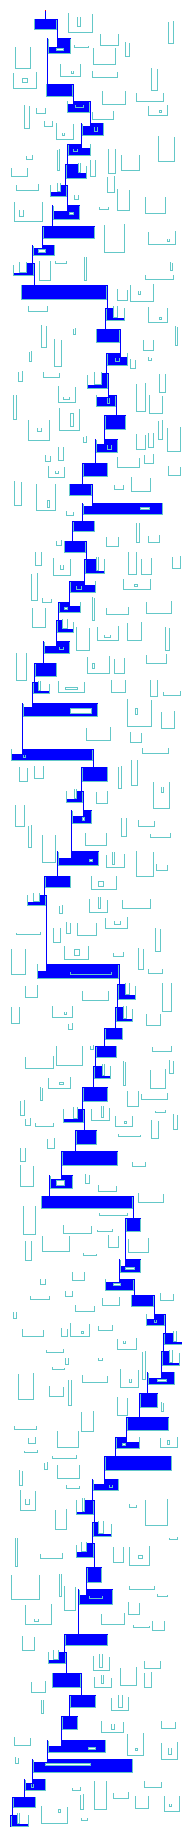
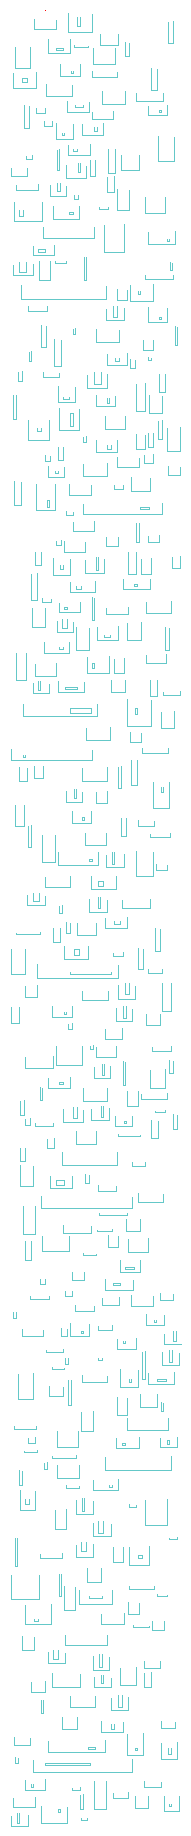
Day-17

Changed region(s): [[0.0785, 0.0, 0.9162, 0.9624], [0.0524, 0.9624, 0.2356, 1.0]]

diff --git a/Day-17/Case-1/main.go b/Day-17/Case-1/main.go
@@ -9,6 +9,7 @@ import (
 	"image/color"
 	"image/png"
 	"os"
+	//"time"
 )
 
 const (
@@ -81,9 +82,9 @@ func main() {
 	fillWater(0, 500)
 	displayFlow()
 
-	/*for y := 201; y < 300; y++ {
+	/*for y := 1; y <= 100; y++ {
 		for x:= 450; x < 550; x++ {
-			if y == 201 && x == 500 { 
+			if y == 1 && x == 500 { 
 				fmt.Printf("&")
 				continue
 			}
@@ -99,6 +100,7 @@ func main() {
 // Returns true for obstruction found, false for clear path
 func fillWater(y int, x int) {
 
+	//maxY = 50
 	OUTER:
 	for y <= maxY {
 
@@ -109,9 +111,9 @@ func fillWater(y int, x int) {
 		} 
 
 		// If the SQUARE BELOW consists of SAND
-		if grid[y+1][x] == sand { 
+		if grid[y+1][x] == sand || grid[y+1][x] == water { 
 			y++
-		} else if grid[y+1][x] == clay || grid[y+1][x] == water {
+		} else if grid[y+1][x] == clay {
 
 			borderYLeft, borderYRight, border, borderXLeft, borderXRight := -1, -1, -1, -1, -1
 			
@@ -119,7 +121,7 @@ func fillWater(y int, x int) {
 			FINDLOOPLEFT:
 			for subY := y; subY >= minY; subY-- {
 				for subX := x; subX >= minX; subX-- {
-					if (grid[subY+1][subX] == sand && grid[subY+1][subX+1] == clay) {
+					if grid[subY][subX] != clay && grid[subY+1][subX] != clay && grid[subY][subX+1] != clay && grid[subY][subX-1] == sand && grid[subY+1][subX+1] == clay  {
 						borderYLeft = subY
 						borderXLeft = subX
 						break FINDLOOPLEFT
@@ -134,8 +136,7 @@ func fillWater(y int, x int) {
 			FINDLOOPRIGHT:
 			for subY := y; subY >= minY; subY-- {
 				for subX := x; subX <= maxX; subX++ {
-					if (grid[subY+1][subX] == sand && grid[subY+1][subX-1] == clay) {
-
+					if grid[subY][subX] != clay && grid[subY+1][subX] != clay && grid[subY][subX-1] != clay && grid[subY][subX+1] == sand && grid[subY+1][subX-1] == clay  {
 						borderYRight = subY
 						borderXRight = subX
 						break FINDLOOPRIGHT
@@ -155,47 +156,47 @@ func fillWater(y int, x int) {
 				border = borderYRight 
 			} 
 			
-			fmt.Println("fill to level", border)
-
 			// FILL LEFT SIDE TO MAX LEVEL
 			FILLLOOPLEFT:
 			for subY := y; subY >= border; subY-- {
 				for subX := x; subX >= minX; subX-- {
-					if (grid[subY+1][subX] == sand && grid[subY+1][subX+1] == clay) {
+					if grid[subY][subX] != clay && grid[subY+1][subX] != clay && grid[subY][subX-1] == sand && grid[subY][subX+1] != clay && grid[subY+1][subX+1] == clay  {
 						break FILLLOOPLEFT
 					}
 
-					fmt.Println("filling", subY, ",", subX, "with water")
-					grid[subY][subX] = water
-					
-					if grid[subY][subX-1] == clay || grid[subY][subX-1] == water {
+					if grid[subY][subX] == clay {
 						break
 					}
+					
+					fmt.Println("filling", subY, ",", subX, "with water")
+					grid[subY][subX] = water
+										
 				}
 			}
 
 			// FILL RIGHT SIDE TO MAX LEVEL
 			FILLLOOPRIGHT:
 			for subY := y; subY >= border; subY-- {
-				for subX := x; subX <= maxX; subX++ {
+				for subX := x; subX < maxX; subX++ {
 					if (grid[subY+1][subX] == sand && grid[subY+1][subX-1] == clay) {
 						break FILLLOOPRIGHT
 					}
 
-					fmt.Println("filling", subY, ",", subX, "with water")
-					grid[subY][subX] = water
-
-					if grid[subY][subX+1] == clay || grid[subY][subX+1] ==  water {
+					if grid[subY][subX] == clay {
 						break
 					}
+
+					fmt.Println("filling", subY, ",", subX, "with water")
+					grid[subY][subX] = water
+					
 				}
 			}
 
+			
 			/*if borderYLeft == borderYRight {
 				fillWater(border, borderXLeft)
 				fillWater(border, borderXRight)
-			} else*/ 
-			if borderYLeft >= borderYRight {
+			} else */if borderYLeft >= borderYRight {
 				fillWater(border, borderXLeft)
 			} else if borderYRight > borderYLeft {
 				fillWater(border, borderXRight)
